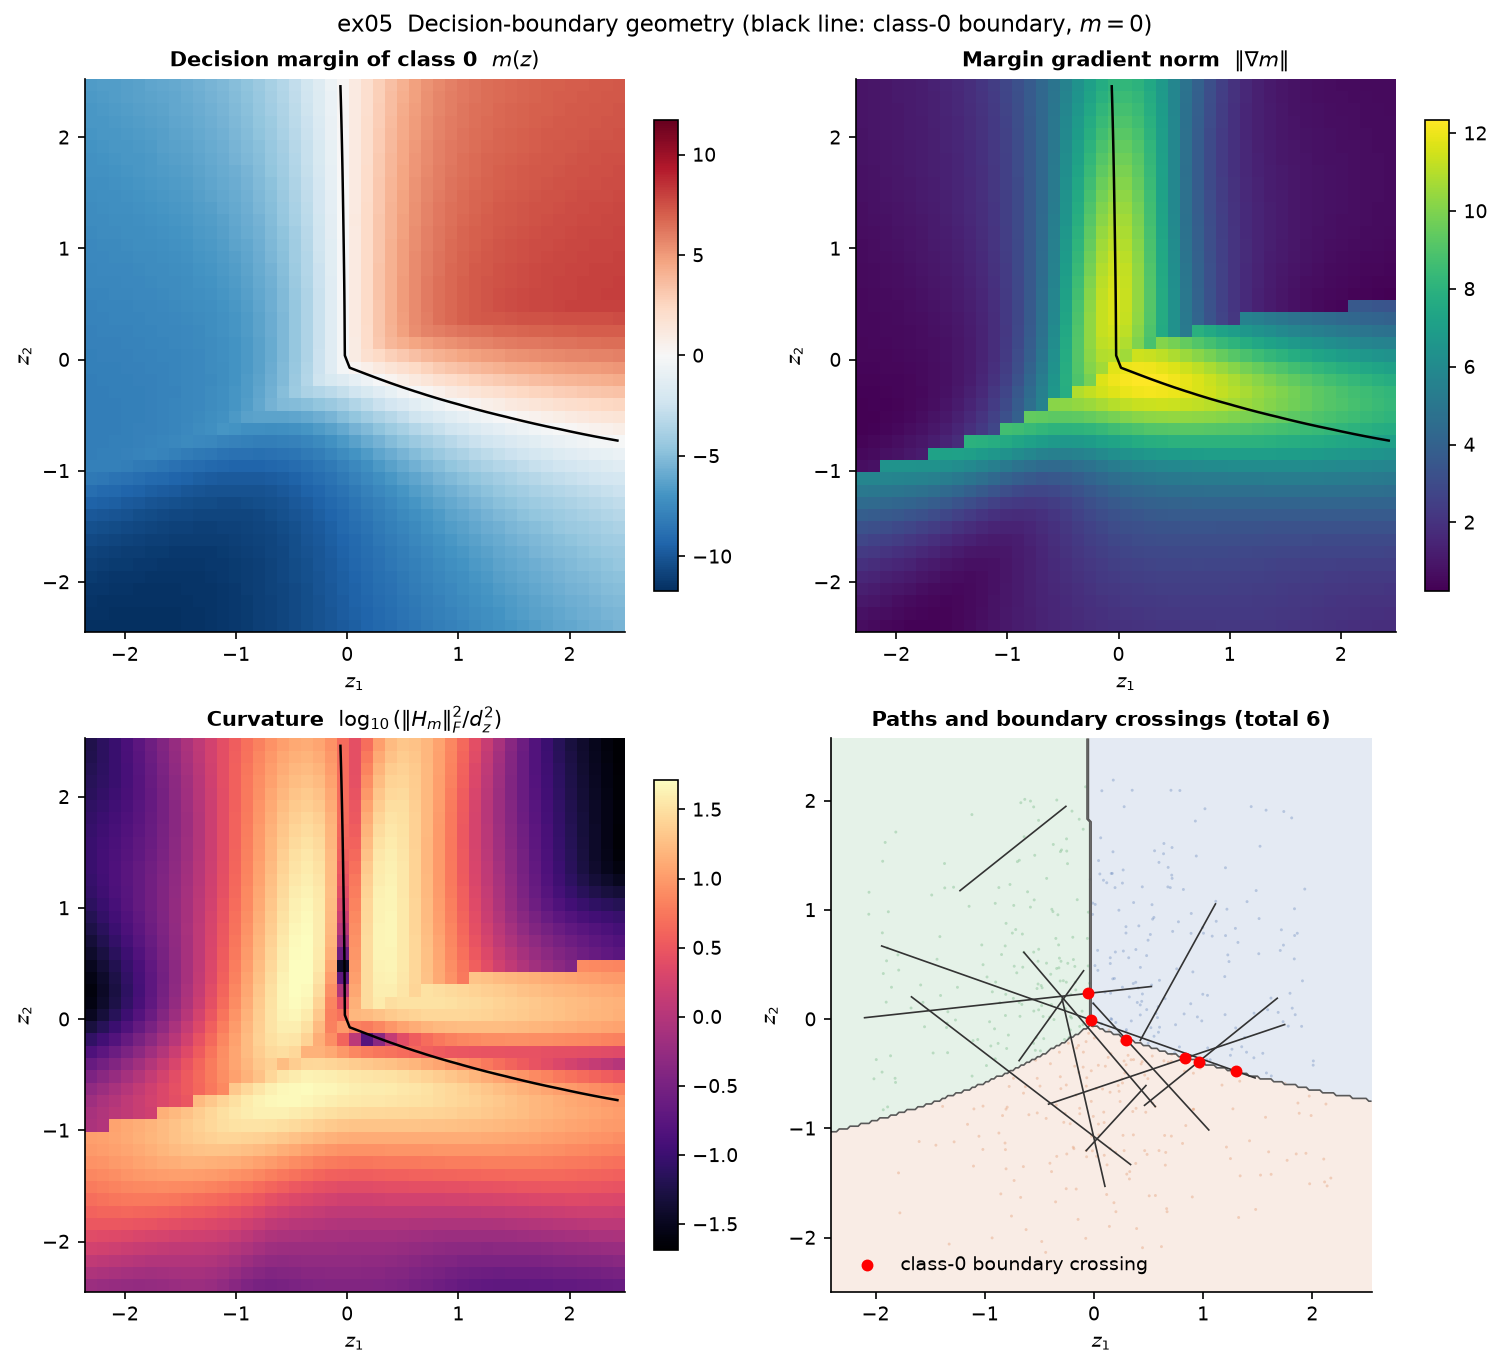
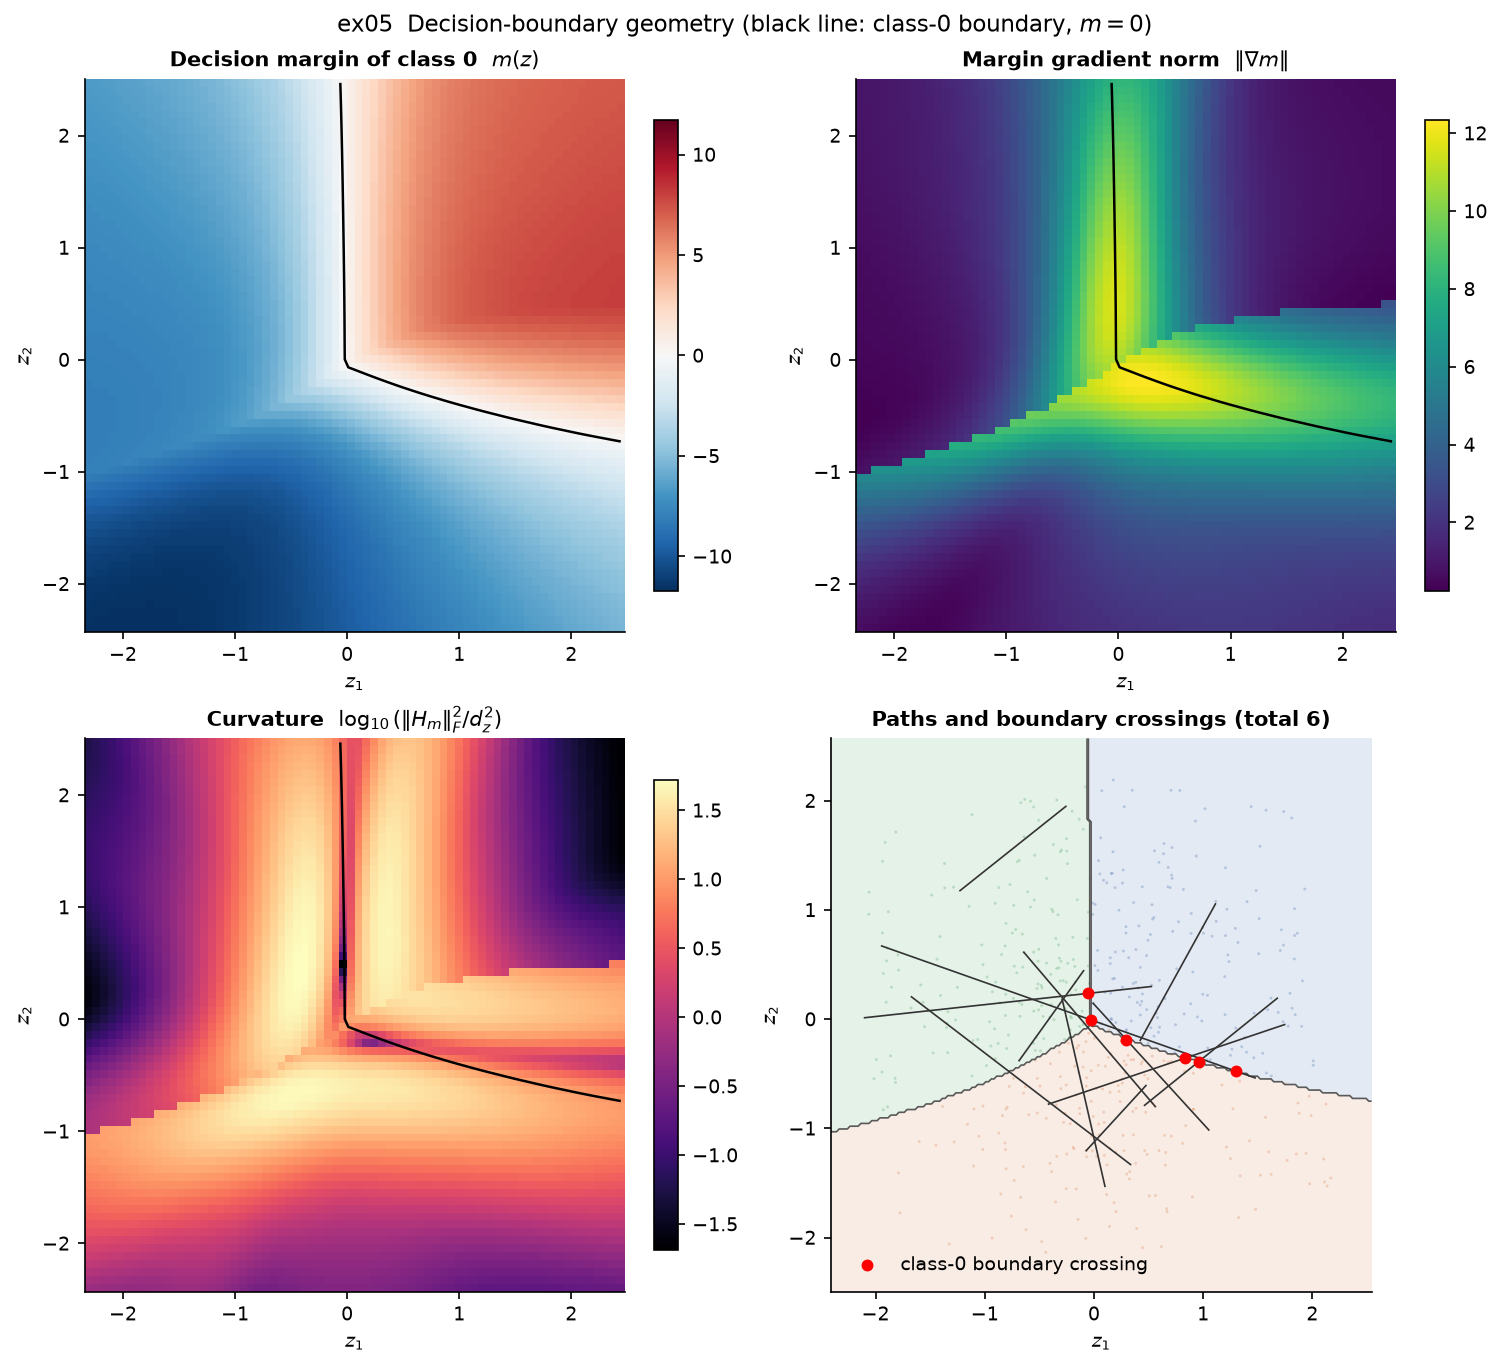
Examples: toy-model overview, reproducible figures, arrangement measure
- ex00: overview of the toy model (training images, latents coloured by the
  true generative factors, reconstructions, decoded grid, classifier).
- toy_models: train single-threaded inside an isolated RNG context, so the
  models and the examples' random draws no longer depend on the thread count
  or on whether the model cache exists.
- ex11: add "arrangement kept" (original classifier on warped latents); it is
  what separates scramble from within-class scramble, which the title claimed.
- ex05: finer grid; caption no longer misreads margin curvature as boundary
  bending. ex09: readable value labels.
- CI: the manual slow job also runs examples/run_all.py.
- Remove the stray examples/__init__.py.

diff --git a/examples/ex11_warp_gallery.py b/examples/ex11_warp_gallery.py
@@ -7,6 +7,8 @@ Each warp re-maps the same latents. Two numbers characterise the result:
   continuous maps and explodes for maps that jump across cell boundaries.
 * **readability** — accuracy of a k-NN classifier *retrained* on the warped latents,
   i.e. whether the class information is still there, in whatever arrangement.
+* **arrangement kept** — accuracy of the *original* latent classifier on the warped
+  latents, i.e. whether classes still sit where they used to.
 """
 import numpy as np
 import torch
@@ -52,17 +54,22 @@ def readability(z):
     return knn.score(z[split:].numpy(), y_train[split:].numpy())
 
 
+def arrangement(z):
+    with torch.no_grad():
+        return (classifier(z).argmax(dim=-1) == y_train).float().mean().item()
+
+
 def stretch(module):
     return float(compute_secant_roughness(module, path_a, path_b, n_steps=64).max_roughness[0])
 
 
-summary = {"original": (stretch(nn.Identity()), readability(z_train), None)}
+summary = {"original": (stretch(nn.Identity()), readability(z_train), None, arrangement(z_train))}
 warped = {}
 for name, kw in SPECS.items():
     warp = build_warp(name, z_train, **kw)
     with torch.no_grad():
         warped[name] = warp.forward(z_train)
-    summary[name] = (stretch(AsModule(warp)), readability(warped[name]), warp)
+    summary[name] = (stretch(AsModule(warp)), readability(warped[name]), warp, arrangement(warped[name]))
 
 fig, axes = plt.subplots(2, 4, figsize=(16, 8.4))
 panels = [("original", z_train)] + list(warped.items())
@@ -75,35 +82,41 @@ for ax, (name, z) in zip(axes.flat, panels):
     if name != "flow_warp":     # the flow moves points outside the original range
         ax.set_xlim(*lims)
         ax.set_ylim(*lims)
-    s, r, warp = summary[name]
+    s, r, warp, a = summary[name]
     flags = "" if warp is None else (
         f"\n{'invertible' if warp.is_invertible else 'not invertible'}, "
         f"{'differentiable' if warp.is_differentiable else 'not differentiable'}")
-    ax.set_title(f"{name}{flags}\nstretch {s:.0f}  ·  readability {r:.2f}", fontsize=9)
+    ax.set_title(f"{name}{flags}\nstretch {s:.0f}\nreadability {r:.2f}  ·  arrangement {a:.2f}",
+                 fontsize=9)
 
 ax = axes.flat[-1]
-for name, (s, r, _) in summary.items():
-    ax.scatter(s, r, s=40, color="k" if name == "original" else "C0", zorder=3)
-    offset = {"scramble": (-10, -12), "class_scramble": (-30, 7)}.get(name, (5, 4))
+for name, (s, r, _, a) in summary.items():
+    sc = ax.scatter(s, r, s=60, c=[a], cmap="viridis", vmin=0, vmax=1, edgecolors="k", zorder=3)
+    offset = {"scramble": (-10, -13), "class_scramble": (-25, 8), "vq": (-12, 8)}.get(name, (5, 4))
     ax.annotate(name, (s, r), textcoords="offset points", xytext=offset, fontsize=8)
 ax.set_xscale("log")
 ax.set_xlabel("max local stretch (log scale)  →  rougher")
 ax.set_ylabel("readability (retrained k-NN accuracy)")
 ax.set_ylim(0.3, 1.05)
 ax.axhline(1 / 3, color="0.6", ls="--", lw=1)
-ax.set_title("Smoothness vs. readability", fontsize=9)
+fig.colorbar(sc, ax=ax, shrink=0.8, label="arrangement kept\n(original classifier accuracy)")
+ax.set_title("Smoothness vs. readability\n(colour: arrangement kept)", fontsize=9)
 fig.suptitle("ex11  Warp gallery: the same latents under each warp (colour = original class; quantized "
              "warps jittered for visibility).\n"
              "Warps change smoothness and class arrangement independently.")
 save(fig, "ex11_warp_gallery")
 
 rough = [summary[n][0] for n in ("vq", "scramble", "class_scramble", "piecewise_affine")]
+arr = {n: v[3] for n, v in summary.items()}
 ok = (min(rough) > 3 * summary["flow_warp"][0]                      # jumps >> smooth flow
       and summary["class_collapse"][0] < 2                            # linear projection
       and summary["class_collapse"][1] < min(summary[n][1] for n in SPECS if n != "class_collapse")
-      and summary["scramble"][1] > 0.8)                               # scrambled but still readable
+      and summary["scramble"][1] > 0.8                                # scrambled but still readable
+      and arr["class_scramble"] > arr["scramble"] + 0.3)             # within-class swaps keep the arrangement
 print("Stretch: " + ", ".join(f"{n} {v[0]:.0f}" for n, v in summary.items()))
 print("Readability: " + ", ".join(f"{n} {v[1]:.2f}" for n, v in summary.items()))
-print("Discontinuous warps stretch more than the flow; only class_collapse loses readability: "
+print("Arrangement: " + ", ".join(f"{n} {v:.2f}" for n, v in arr.items()))
+print("Discontinuous warps stretch more than the flow; only class_collapse loses readability; "
+      "within-class scramble keeps the arrangement: "
       + ("PASS" if ok else "FAIL"))
 assert ok

diff --git a/examples/ex00_toy_model.py b/examples/ex00_toy_model.py
@@ -1,0 +1,90 @@
+"""ex00: The toy model used by most examples — data, latent space, reconstructions, classifier."""
+import torch
+from sklearn.model_selection import cross_val_score
+from sklearn.neighbors import KNeighborsRegressor
+
+from _common import plt, save, latent_grid, class_regions, class_scatter, CLASS_COLORS
+from toy_models import get_toy_models, _make_dataset, CLASS_NAMES
+
+decoder, classifier, z_train, y_train = get_toy_models()
+x, _, uv = _make_dataset()                 # same images and bump positions the models were trained on
+
+with torch.no_grad():
+    recon = decoder(z_train)
+    acc = (classifier(z_train).argmax(dim=-1) == y_train).float().mean().item()
+recon_mse = ((recon - x) ** 2).mean().item()
+# How well do the 2-D latents determine the bump position? (cross-validated k-NN R^2)
+r2 = cross_val_score(KNeighborsRegressor(n_neighbors=10), z_train.numpy(), uv.numpy(), cv=3).mean()
+
+
+def mosaic(images, ncol):
+    """Tile (N, 1, H, W) images into one (rows*H, ncol*W) array."""
+    n, _, h, w = images.shape
+    nrow = -(-n // ncol)
+    pad = torch.zeros(nrow * ncol - n, 1, h, w)
+    tiles = torch.cat([images, pad]).reshape(nrow, ncol, h, w)
+    return tiles.permute(0, 2, 1, 3).reshape(nrow * h, ncol * w)
+
+
+fig = plt.figure(figsize=(15, 9))
+gs = fig.add_gridspec(2, 3, width_ratios=[1.15, 1, 1])
+
+# (a) training images, framed by class colour
+ax = fig.add_subplot(gs[0, 0])
+idx = torch.cat([torch.nonzero(y_train == c).squeeze(1)[:6] for c in range(3)])
+ax.imshow(mosaic(x[idx], 6), cmap="gray")
+for k, c in enumerate(y_train[idx].tolist()):
+    r, col = divmod(k, 6)
+    ax.add_patch(plt.Rectangle((col * 16 - 0.5, r * 16 - 0.5), 16, 16, fill=False,
+                               edgecolor=CLASS_COLORS[c], lw=2))
+ax.set_axis_off()
+ax.set_title("Training images (frame = class:\nangle sector of the bump position)")
+
+# (b, c) latent sheet coloured by the true generative factors
+for j, (name, ax) in enumerate([("horizontal", fig.add_subplot(gs[0, 1])),
+                                ("vertical", fig.add_subplot(gs[0, 2]))]):
+    sc = ax.scatter(z_train[:, 0], z_train[:, 1], c=uv[:, j], cmap="coolwarm", s=3, lw=0)
+    fig.colorbar(sc, ax=ax, shrink=0.8, label=f"true {name} bump position")
+    ax.set_aspect("equal")
+    ax.set_xlabel("$z_1$")
+    ax.set_ylabel("$z_2$")
+    ax.set_title(f"Latents coloured by {name} bump position")
+
+# (d) reconstructions
+ax = fig.add_subplot(gs[1, 0])
+sel = torch.randperm(len(x), generator=torch.Generator().manual_seed(1))[:8]
+ax.imshow(torch.cat([mosaic(x[sel], 8), mosaic(recon[sel], 8)], dim=0), cmap="gray")
+ax.set_yticks([8, 24], ["input", "reconstruction"])
+ax.set_xticks([])
+ax.set_title(f"Reconstructions (pixel MSE {recon_mse:.4f})")
+
+# (e) decoded latent grid, laid out at the latent coordinates
+ax = fig.add_subplot(gs[1, 1])
+n = 12
+lo, hi = z_train.min(dim=0).values, z_train.max(dim=0).values
+g1, g2 = torch.linspace(lo[0], hi[0], n), torch.linspace(hi[1], lo[1], n)
+grid = torch.stack(torch.meshgrid(g2, g1, indexing="ij")[::-1], dim=-1).reshape(-1, 2)
+with torch.no_grad():
+    ax.imshow(mosaic(decoder(grid), n), cmap="gray",
+              extent=[lo[0].item(), hi[0].item(), lo[1].item(), hi[1].item()])
+ax.set_xlabel("$z_1$")
+ax.set_ylabel("$z_2$")
+ax.set_title("Decoder output across the latent space")
+
+# (f) classifier
+ax = fig.add_subplot(gs[1, 2])
+class_regions(ax, classifier, z_train, alpha=0.2)
+class_scatter(ax, z_train, y_train, s=3, alpha=0.5)
+for c, name in enumerate(CLASS_NAMES):
+    ax.scatter([], [], color=CLASS_COLORS[c], label=f"class {c} ({name})")
+ax.legend(loc="lower left", fontsize=8, markerscale=2)
+ax.set_title(f"Latent classifier (accuracy {acc:.3f})")
+
+fig.suptitle("ex00  Toy model: a VAE with a 2-D latent space for 16×16 images of a bump at a continuous "
+             "position,\nand a 3-class classifier on the latents")
+save(fig, "ex00_toy_model")
+
+ok = r2 > 0.95 and recon_mse < 0.01 and acc > 0.98
+print(f"Latents determine the bump position (k-NN R^2 {r2:.3f}), reconstruction MSE {recon_mse:.4f}, "
+      f"classifier accuracy {acc:.3f}: " + ("PASS" if ok else "FAIL"))
+assert ok

diff --git a/examples/toy_models.py b/examples/toy_models.py
@@ -13,7 +13,7 @@ Usage:
     from toy_models import get_toy_models
     decoder, classifier, z_train, y_train = get_toy_models()
 
-Models are trained once (about a minute on CPU) and cached in
+Models are trained once (about a minute on CPU, single-threaded for reproducibility) and cached in
 ``examples/outputs/``.
 """
 import math
@@ -143,12 +143,21 @@ def get_toy_models():
         clf.load_state_dict(ckpt["classifier"])
         z_train, y_train = ckpt["z_train"], ckpt["y_train"]
     else:
-        x, y_train, _ = _make_dataset()
-        vae = _train_vae(x)
-        vae.eval()
-        with torch.no_grad():
-            z_train, _ = vae.encoder(x)
-        clf = _train_classifier(z_train, y_train)
+        # Train with one thread (bit-reproducible across machines with the same
+        # torch build) and in an isolated RNG context, so that the caller's random
+        # state is the same whether or not the models came from the cache.
+        n_threads = torch.get_num_threads()
+        torch.set_num_threads(1)
+        try:
+            with torch.random.fork_rng(devices=[]):
+                x, y_train, _ = _make_dataset()
+                vae = _train_vae(x)
+                vae.eval()
+                with torch.no_grad():
+                    z_train, _ = vae.encoder(x)
+                clf = _train_classifier(z_train, y_train)
+        finally:
+            torch.set_num_threads(n_threads)
         torch.save({"vae": vae.state_dict(), "classifier": clf.state_dict(),
                     "z_train": z_train, "y_train": y_train}, CACHE_PATH)
     vae.eval()

diff --git a/examples/ex09_mine_verification.py b/examples/ex09_mine_verification.py
@@ -64,14 +64,15 @@ for ax, n in zip(axes, SIZES):
             color = shades.get(key[:2], "0.4")
             bar = ax.bar(x, res[key], width=0.8, color=color,
                          label=names.get(key[:2]) if (n == SIZES[0] and key.endswith("64")) else None)
-            ax.bar_label(bar, fmt="%.2f", fontsize=8)
+            ax.bar_label(bar, fmt="%.2f", fontsize=8, zorder=4,
+                         bbox=dict(boxstyle="square,pad=0.1", fc="white", ec="none"))
             xs.append(x)
             x += 1
         ticks.append((sum(xs) / len(xs), g_label))
         if g_label.startswith("K"):
             k = int(g_label.split("=")[1])
             ax.hlines(math.log(k), xs[0] - 0.5, xs[-1] + 0.5, colors="k", linestyles="--", lw=1)
-            ax.text(xs[-1] + 0.5, math.log(k), f" log {k}", va="center", fontsize=8)
+            ax.text(xs[0] - 0.5, math.log(k), f"log {k} ", va="center", ha="right", fontsize=8)
         x += 0.8
     ax.set_xticks([t for t, _ in ticks], [lbl for _, lbl in ticks])
     ax.set_title(f"N = {n:,}  ({n // 64} samples per cell at K = 64)")

diff --git a/examples/ex05_boundary_geometry.py b/examples/ex05_boundary_geometry.py
@@ -10,7 +10,7 @@ torch.manual_seed(0)
 decoder, classifier, z_train, y_train = get_toy_models()
 CLASS = 0
 
-gx, gy, pts = latent_grid(z_train, n=45, pad=0.2)
+gx, gy, pts = latent_grid(z_train, n=70, pad=0.2)
 geo = compute_boundary_geometry(classifier, pts, class_idx=CLASS)
 margin = geo.margins.reshape(gx.shape)
 

diff --git a/examples/README.md b/examples/README.md
@@ -1,6 +1,7 @@
 # Examples
 
-Eleven small, self-contained scripts, each demonstrating one diagnostic or warp. Every
+Twelve small, self-contained scripts: an overview of the shared toy model, then one per
+diagnostic or warp. Every
 script saves a figure and ends with a pass/fail check of its expected outcome.
 
 ```bash
@@ -14,10 +15,12 @@ Most examples share a **toy model** (`toy_models.py`). It is a VAE with a 2-D la
 trained on 16×16 images of a Gaussian bump at a continuous position, so the latent space
 is a smooth 2-D sheet of bump positions. A small classifier on the latents assigns three
 classes by the bump's angle sector, so the classes meet at the image centre. Training
-takes about 30 seconds on a CPU, and the trained models are cached in `examples/outputs/`.
+takes about 20 seconds on a CPU (single-threaded, so it is reproducible), and the trained
+models are cached in `examples/outputs/`.
 
 | Script | Shows |
 |--------|-------|
+| [`ex00_toy_model.py`](ex00_toy_model.py) | The toy model: data, latent space, reconstructions, classifier |
 | [`ex01_jacobian_spectrum.py`](ex01_jacobian_spectrum.py) | Decoder Jacobian spectrum and where a decoder is rough |
 | [`ex02_geodesic_discrepancy.py`](ex02_geodesic_discrepancy.py) | Pullback metric and output-space path length |
 | [`ex03_ppl_profile.py`](ex03_ppl_profile.py) | Perceptual path length and spike detection |
@@ -28,9 +31,20 @@ takes about 30 seconds on a CPU, and the trained models are cached in `examples/
 | [`ex08_flow_warp.py`](ex08_flow_warp.py) | `flow_warp`: a learned smooth bijection |
 | [`ex09_mine_verification.py`](ex09_mine_verification.py) | MINE mutual information, and where it fails |
 | [`ex10_full_suite.py`](ex10_full_suite.py) | `DiagnosticSuite` on confident vs. ambiguous latents |
-| [`ex11_warp_gallery.py`](ex11_warp_gallery.py) | All six warps by smoothness and readability |
+| [`ex11_warp_gallery.py`](ex11_warp_gallery.py) | All six warps by smoothness, readability and class arrangement |
 
 ---
+
+### ex00: The toy model
+
+![ex00](figures/ex00_toy_model.png)
+
+Training images show a single bump, and the frame colour is the class, i.e. the angle sector of the
+bump position. Colouring the latents by the true horizontal and vertical bump position shows that
+the VAE has recovered both generative factors as a smooth 2-D sheet. It happens to encode the
+horizontal position along `z₂` and the vertical along `z₁`, a rotation that does not matter. The
+decoded grid (bottom middle) shows the bump moving continuously across the latent space, and the
+latent classifier separates the three sectors, which meet near the centre of the sheet.
 
 ### ex01: Jacobian spectrum
 
@@ -75,10 +89,12 @@ latents. Per-point estimates (middle) are noisy, but their rolling median and th
 ![ex05](figures/ex05_boundary_geometry.png)
 
 All quantities are computed on the decision margin `m(z) = l₀ − max_{j≠0} l_j` of class 0, whose
-zero level set (black line) is the class-0 decision boundary. The margin gradient concentrates near
-the boundary, and the curvature shows where the boundary bends, including the kink where class 0's
-strongest competitor switches. Bottom right: straight latent paths and the points where they cross
-the class-0 boundary.
+zero level set (black line) is the class-0 decision boundary. The margin changes fastest in a band
+around the boundary. The curvature panel shows the size of the margin's Hessian, which is largest in
+the transition zones where the classifier's units saturate and along the line where class 0's
+strongest competitor switches between classes 1 and 2 (a kink in the margin). It is a property of
+the margin function, not of the boundary line's shape. Bottom right: straight latent paths and the
+points where they cross the class-0 boundary.
 
 ### ex06: Gradient alignment
 
@@ -129,9 +145,17 @@ and no class separation (Fisher ratio ≈ 0).
 
 ![ex11](figures/ex11_warp_gallery.png)
 
-The same latents under every warp, coloured by their original class. Each warp is placed by its
-**max local stretch** (largest secant ratio at the smallest step; it explodes for maps that jump
-across cell boundaries) and its **readability** (accuracy of a classifier *retrained* on the warped
-latents). The warps vary these independently: `piecewise_affine` is rough but fully readable,
-`class_collapse` is perfectly smooth but loses class information, and `flow_warp` stays smooth and
-readable.
+The same latents under every warp, coloured by their original class. Three numbers characterise
+each warp:
+
+- **stretch:** the largest secant ratio at the smallest step. It explodes for maps that jump across
+  cell boundaries.
+- **readability:** the accuracy of a classifier *retrained* on the warped latents, i.e. whether the
+  class information survives.
+- **arrangement:** the accuracy of the *original* classifier on the warped latents, i.e. whether
+  classes stay where they were.
+
+The warps vary these independently. `scramble` and within-class `class_scramble` are equally rough
+and equally readable, but only the latter keeps the class arrangement. `piecewise_affine` is rough
+but fully readable. `class_collapse` is perfectly smooth but loses class information. `flow_warp`
+stays smooth and readable while moving the classes around.

diff --git a/README.md b/README.md
@@ -17,8 +17,8 @@ Encoding is always the caller's job: the library only takes latent tensors and
 
 ![Warp gallery](examples/figures/ex11_warp_gallery.png)
 *The six warps applied to the 2-D latents of a toy VAE (colour = class), placed by how rough the
-map is and whether the class information survives. See [`examples/`](examples/README.md) for
-this and ten more worked examples.*
+map is, whether the class information survives, and whether the classes stay where they were.
+See [`examples/`](examples/README.md) for this and eleven more worked examples.*
 
 ## Installation
 
@@ -119,7 +119,8 @@ provide `forward_ste`, a straight-through estimator with an identity gradient.
 
 ## Examples
 
-`examples/` contains eleven runnable scripts, one per diagnostic or warp, on small toy models.
+`examples/` contains twelve runnable scripts on small toy models: an overview of the shared toy
+VAE, then one per diagnostic or warp.
 Each one saves a figure and asserts its expected outcome. The
 [examples README](examples/README.md) shows every figure with a short explanation;
 `python examples/run_all.py` runs them all.

diff --git a/CHANGELOG.md b/CHANGELOG.md
@@ -20,4 +20,4 @@
 - Functional primitives `posthoc_vq`, `bijective_scramble`, `class_constrained_scramble`, `FlowWarp`, `fit_flow_ensemble`.
 
 ### Examples
-- Eleven runnable examples on a toy 2-D VAE with a three-class latent classifier, each saving a figure and checking its expected outcome; `examples/run_all.py` runs them all. The figures are included in `examples/figures/` and shown in `examples/README.md`.
+- Twelve runnable examples on a toy 2-D VAE with a three-class latent classifier, each saving a figure and checking its expected outcome; `examples/run_all.py` runs them all. The figures are included in `examples/figures/` and shown in `examples/README.md`.
